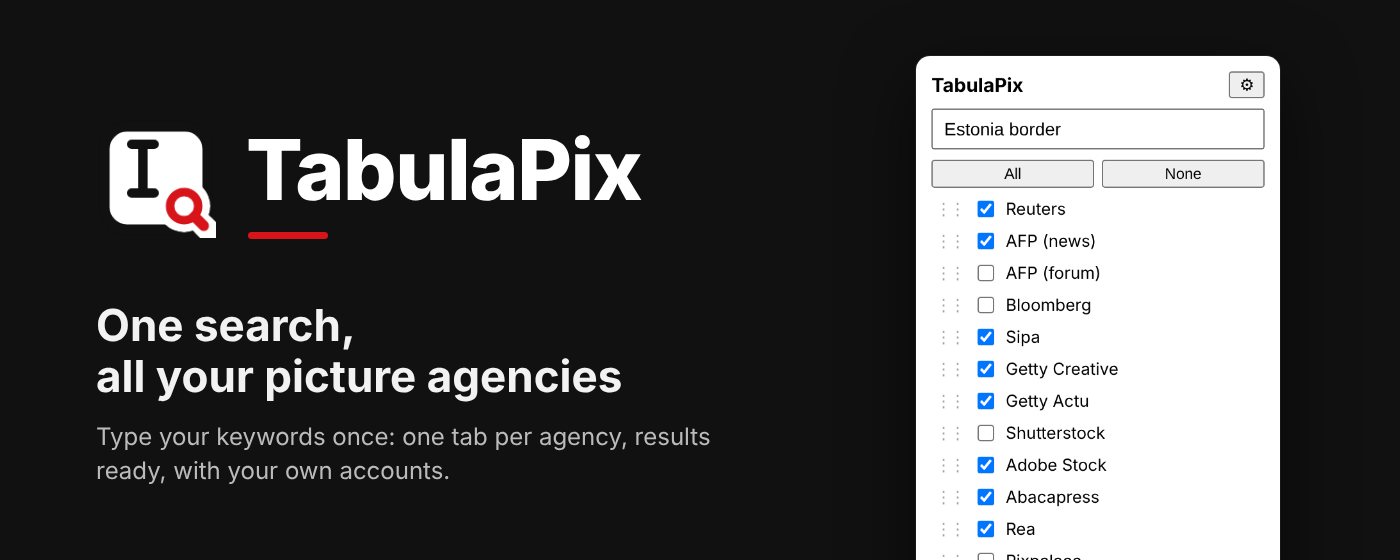
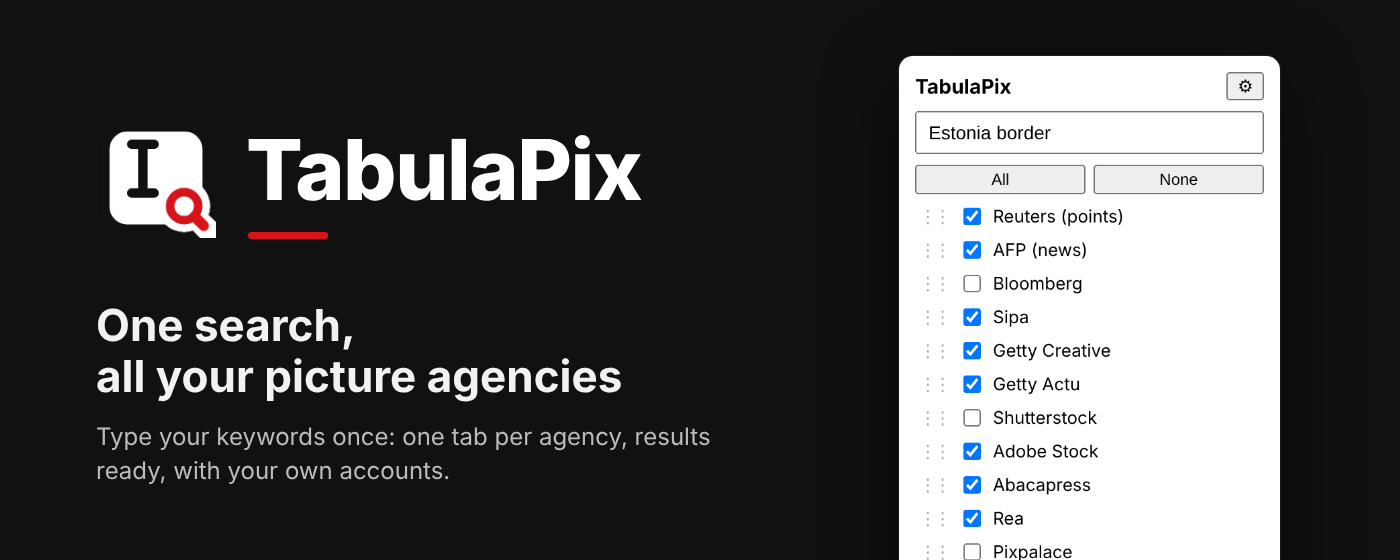
Store link in the README; refresh store screenshots for Reuters (points)
- README: install from the Chrome Web Store (top and Installation section),
  with a note that the store version is a different extension for Chrome,
  so settings from a folder-loaded copy are not carried over.
- Store screenshots and banner regenerated: the list now shows
  'Reuters (points)'. All images still 24-bit PNG without alpha.

Claude-Session: https://claude.ai/code/session_01CeJDTDncjuPL2TNQdTgCcr

Changed region(s): [[0.645, 0.0911, 0.9214, 1.0]]

diff --git a/README.md b/README.md
@@ -2,6 +2,8 @@
 
 **Une recherche, toutes vos agences photo.** — *One search, all your picture agencies.*
 
+**➜ [Installer depuis le Chrome Web Store](https://chromewebstore.google.com/detail/gdggcpmgjoaobfjlnbfmgfnjfgodgikp)** — *[Install from the Chrome Web Store](https://chromewebstore.google.com/detail/gdggcpmgjoaobfjlnbfmgfnjfgodgikp)*
+
 Available in English and French (follows the browser language, can be changed in the settings). Chrome extension for photo editors: type your keywords once and search all your news picture agencies at the same time (AFP, Reuters, Getty, Sipa, Abaca, MaxPPP, PixPalace…). TabulaPix opens one tab per agency with results ready, using your own logged-in accounts. No scraping, no API keys, no passwords stored.
 
 ---
@@ -15,6 +17,13 @@ Extension Chrome (Manifest V3) : vous tapez vos mots-clés une fois, cochez les 
 HTML/JavaScript simple : aucune dépendance, aucune compilation.
 
 ### Installation
+
+**Le plus simple : [installer TabulaPix depuis le Chrome Web Store](https://chromewebstore.google.com/detail/gdggcpmgjoaobfjlnbfmgfnjfgodgikp)**, puis épingler l'extension (icône puzzle 🧩 → épingle à côté de **TabulaPix**). Les mises à jour arrivent ensuite automatiquement.
+
+> Si vous utilisiez jusqu'ici la version chargée depuis un dossier, Chrome considère la version du store comme une autre extension : vos réglages (agences cochées, ordre, agences ajoutées, sous-domaine Pixpalace) ne sont pas repris. Notez-les, installez la version du store, refaites-les, puis supprimez l'ancienne version dans `chrome://extensions` pour ne pas avoir TabulaPix en double.
+
+**Installation manuelle** (version de développement, depuis ce dépôt) :
+
 
 1. Téléchargez ce dépôt (bouton **Code → Download ZIP** sur GitHub) et décompressez-le, ou clonez-le avec `git clone`.
 2. Dans Chrome, ouvrez `chrome://extensions`.
